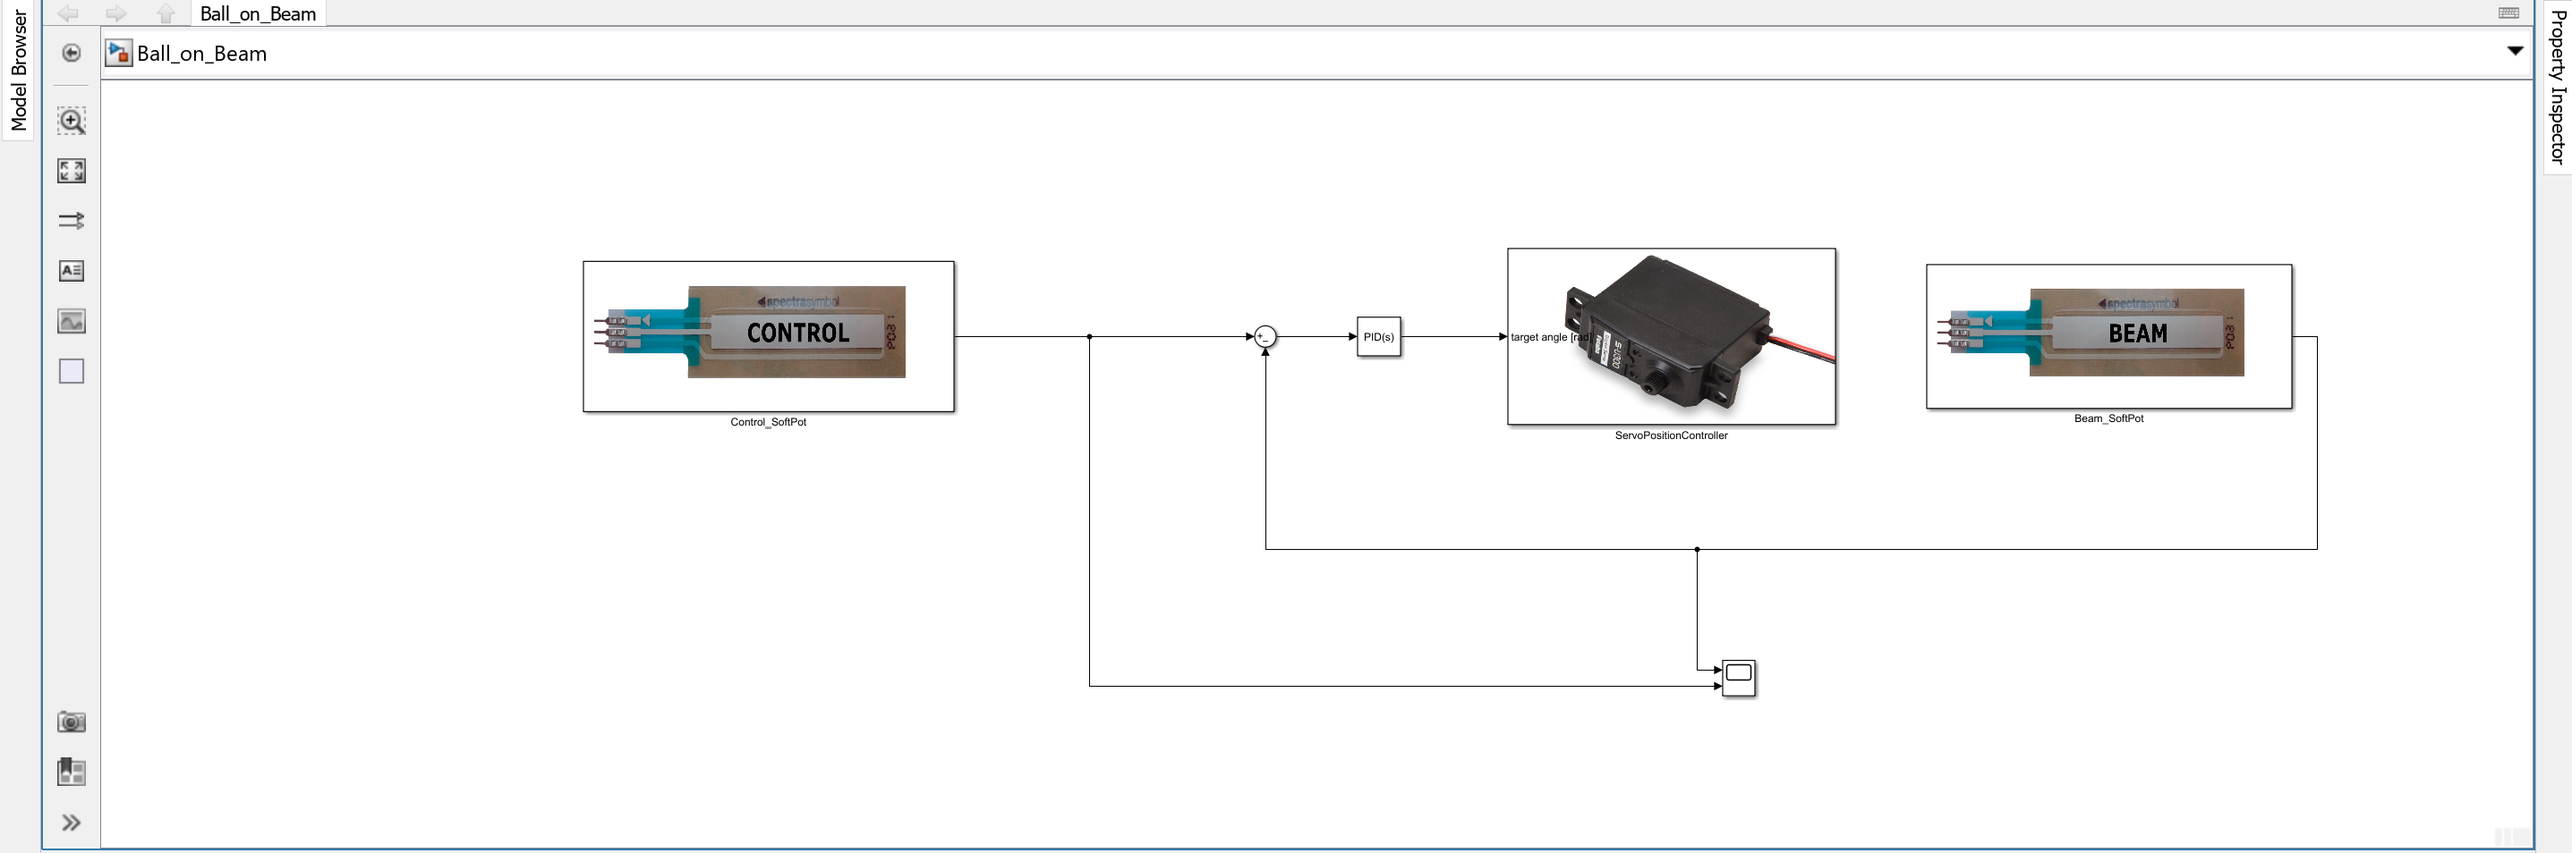
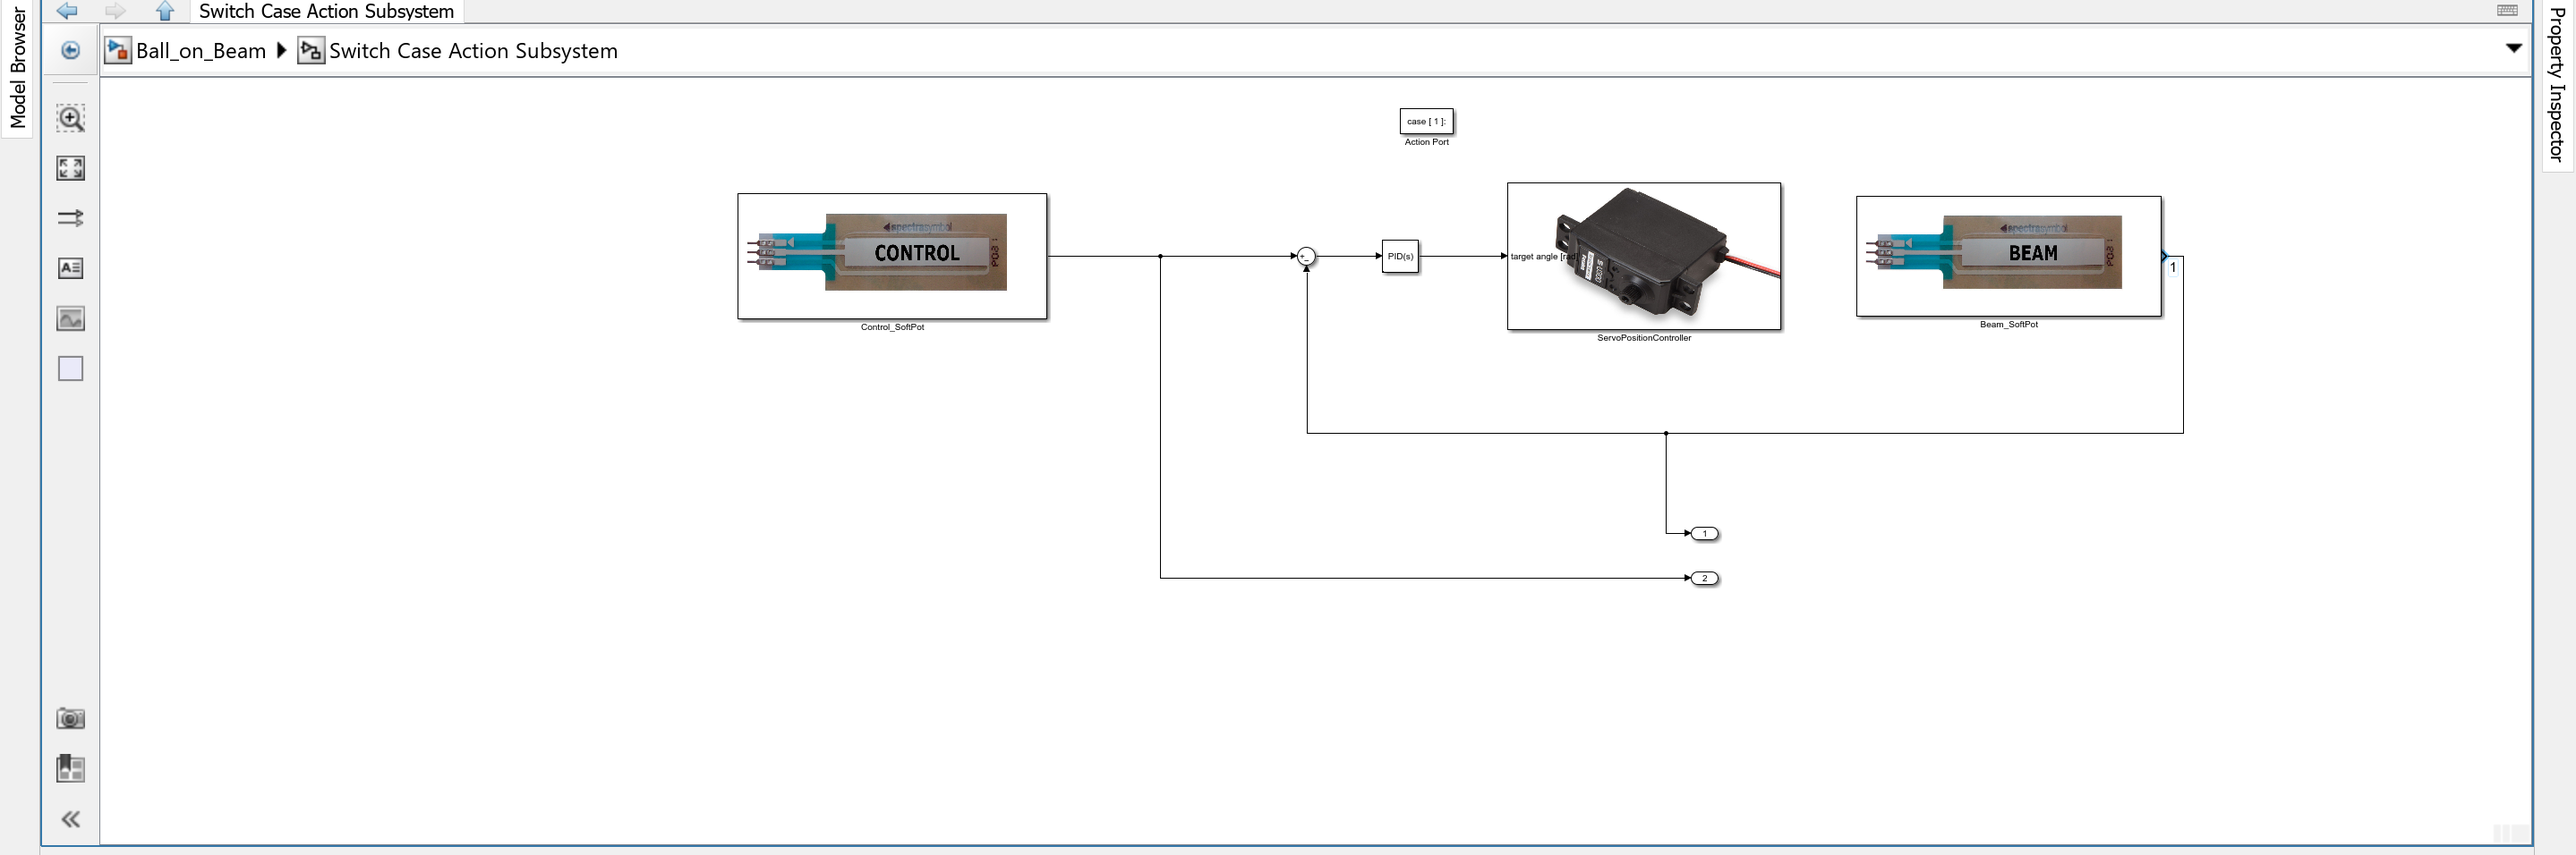
docs: edited tasks/08

diff --git a/docs/D_Course_tasks/08_subsystem_control_softpot.md b/docs/D_Course_tasks/08_subsystem_control_softpot.md
@@ -65,7 +65,7 @@ Inside your Simulink model:
 > Try moving the reference ball and observe how the beam adjusts to follow it.
 
 ![Ball tracking second ball](images/dual_ball_tracking_demo.png)
-<center>Scope of system tracking the reference ball in real time using PID control</center>
+<center>Scope of system tracking the reference ball (blue) in real time using PID control</center>
 
 ---
 
@@ -77,5 +77,9 @@ Inside your Simulink model:
 | `Read_Ball_Position`     | Measures actual ball position                    |
 | `PID_Controller_Tuned`   | Computes correction based on position error      |
 | `SoftPot_Tracking`       | Self-contained subsystem for dual-ball tracking  |
+| `Servo_Position_Controller` | Commands servo to adjust beam angle           |
+| `Output` blocks          | Visualize setpoint and actual position in Scope  |
+| `Switch Case`            | Allows mode switching for different control cases|
+
 
 With this modular control structure, you’ve created a reusable component for real-time reference tracking. This forms the basis for later integration into a complete system.
